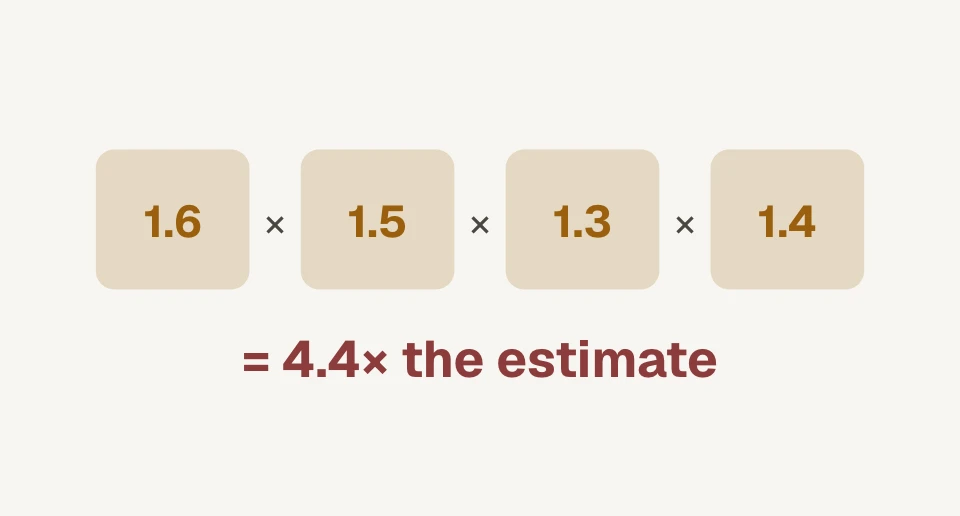
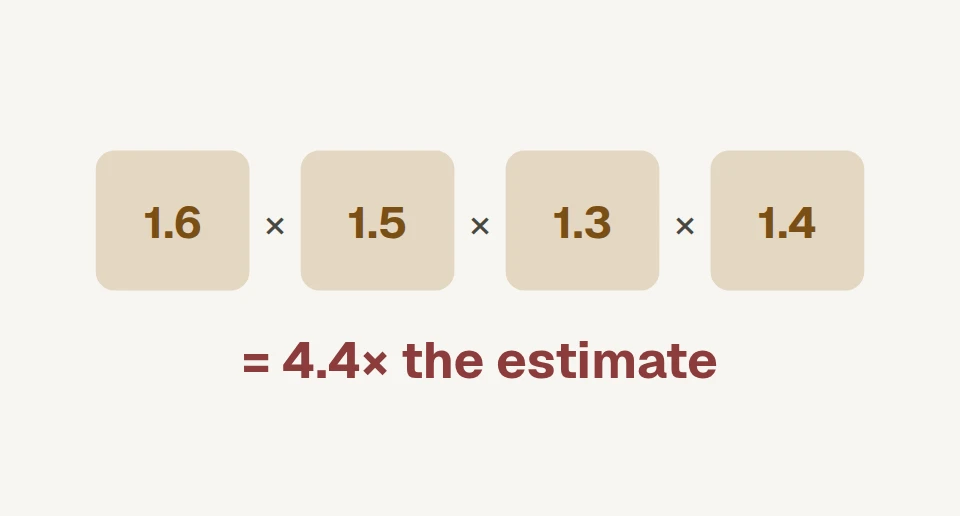
Three mental-model glyphs' labels read at 4.5 to 1 in both themes
The baton's "artefact" and "not on Friday", the average's "overall 84%" and
the multiplier's four factors sat on their own heavier tints at 3.3 to 4.5 to
1, two of them in the dark theme as well. A second token keeps 74% of the hue
in light and 82% in dark for the two labels on 28 to 30% tints, and the other
two share the figures' token; every label now reads at 4.7 or more on the
models page and in the lesson, on bone and on paper, with the tints
unchanged. The three glyphs are shot again for the wiki in both themes.

Claude-Session: https://claude.ai/code/session_01NALejySY8WrX289xXqTTSm

diff --git a/site/theme/base.css b/site/theme/base.css
@@ -506,6 +506,8 @@ tbody tr:hover{background:color-mix(in oklab,var(--accent) 4%,transparent)}
   --dg-line:38%;           /* hairline of the concept hue */
   --dg-text:78%;           /* a label drawn in a hue keeps this much of it, the rest is ink: the light
                               hues read 3.4 to 4.5 to 1 on their own tint, and 4.6 or more at 78% */
+  --mg-text:74%;           /* the same for a mental-model glyph's label on its heavier 28 to 30% tint
+                              (pages/models.py): ochre and accent read 3.3 and 3.6, and 4.7 or more at 74% */
 }
 /* The lifted values for the dark page. */
 @media screen{:root:not([data-theme="light"]){
@@ -513,6 +515,7 @@ tbody tr:hover{background:color-mix(in oklab,var(--accent) 4%,transparent)}
   --dg-green:#6BBE8B; --dg-violet:#AE93E0; --dg-rose:#DE8A8A; --dg-sky:#6FB9D9;
   --dg-on:#14140F; --dg-fill:13%; --dg-soft:20%; --dg-line:44%;
   --dg-text:100%;          /* the lifted hues already read 4.6 or more on their tints */
+  --mg-text:82%;           /* lifted ochre and accent read 4.1 on a 30% tint over paper, and 4.7 or more at 82% */
 }}
 
 /* ---- the board frame ---------------------------------------------------- */

diff --git a/site/pages/models.py b/site/pages/models.py
@@ -17,6 +17,13 @@ E = k.E
 W, H = 260, 130  # every glyph shares a frame so the page reads as one set
 
 
+def _lab(tok: str, keep: str = "--dg-text") -> str:
+    """A label drawn in a hue, deepened toward the ink so it reads 4.5 to 1 on its own tint (base.css):
+    ``--dg-text`` where only the light theme needs it, ``--mg-text`` on a 28 to 30% tint, where the
+    dark theme needs it too."""
+    return f"color-mix(in oklab,var({tok}) var({keep}),var(--ink))"
+
+
 def _svg(inner: str, label: str) -> str:
     return (f'<svg viewBox="0 0 {W} {H}" class="mg" role="img" aria-label="{E(label)}">'
             f"{inner}</svg>")
@@ -84,7 +91,7 @@ def g_wall() -> str:
 def g_average() -> str:
     return _svg(
         '<rect x="18" y="30" width="150" height="34" rx="4" fill="var(--accent)" opacity=".28"/>'
-        '<text x="93" y="52" text-anchor="middle" font-size="12" font-weight="700" fill="var(--accent)">overall 84%</text>'
+        f'<text x="93" y="52" text-anchor="middle" font-size="12" font-weight="700" fill="{_lab("--accent", "--mg-text")}">overall 84%</text>'
         '<rect x="18" y="74" width="118" height="17" rx="3" fill="var(--sage)" opacity=".7"/>'
         '<text x="142" y="87" font-size="12" fill="currentColor" opacity=".75">easy, 89%</text>'
         '<rect x="18" y="96" width="26" height="17" rx="3" fill="var(--stop)"/>'
@@ -130,7 +137,7 @@ def g_multiply() -> str:
         out.append(f'<rect x="{x}" y="34" width="44" height="40" rx="5" fill="var(--warn)" opacity=".2" '
                    f'stroke="var(--warn)"/>')
         out.append(f'<text x="{x+22}" y="59" text-anchor="middle" font-size="13" font-weight="700" '
-                   f'fill="var(--warn)">{v}</text>')
+                   f'fill="{_lab("--warn")}">{v}</text>')
     for x in xs[:-1]:
         out.append(f'<text x="{x+52}" y="59" text-anchor="middle" font-size="12" fill="currentColor" '
                    f'opacity=".78">×</text>')
@@ -175,12 +182,12 @@ def g_baton() -> str:
         '<circle cx="48" cy="58" r="15" fill="var(--accent)" opacity=".85"/>'
         '<circle cx="200" cy="58" r="15" fill="var(--accent)" opacity=".5"/>'
         '<rect x="88" y="48" width="72" height="22" rx="4" fill="var(--ochre)" opacity=".3" stroke="var(--ochre)"/>'
-        '<text x="124" y="63" text-anchor="middle" font-size="12.5" font-weight="700" fill="var(--ochre)">artefact</text>'
+        f'<text x="124" y="63" text-anchor="middle" font-size="12.5" font-weight="700" fill="{_lab("--ochre", "--mg-text")}">artefact</text>'
         '<path d="M66 58 H86" stroke="currentColor" stroke-width="2" opacity=".5"/>'
         '<path d="M162 58 H182" stroke="currentColor" stroke-width="2" opacity=".5"/>'
         '<text x="124" y="102" text-anchor="middle" font-size="12" fill="currentColor" opacity=".7">'
         'the phase ends when this crosses</text>'
-        '<text x="124" y="116" text-anchor="middle" font-size="12" fill="var(--stop)" opacity=".8">not on Friday</text>',
+        f'<text x="124" y="116" text-anchor="middle" font-size="12" fill="{_lab("--stop")}" opacity=".8">not on Friday</text>',
         "Two runners passing an artefact rather than a baton")
 
 
